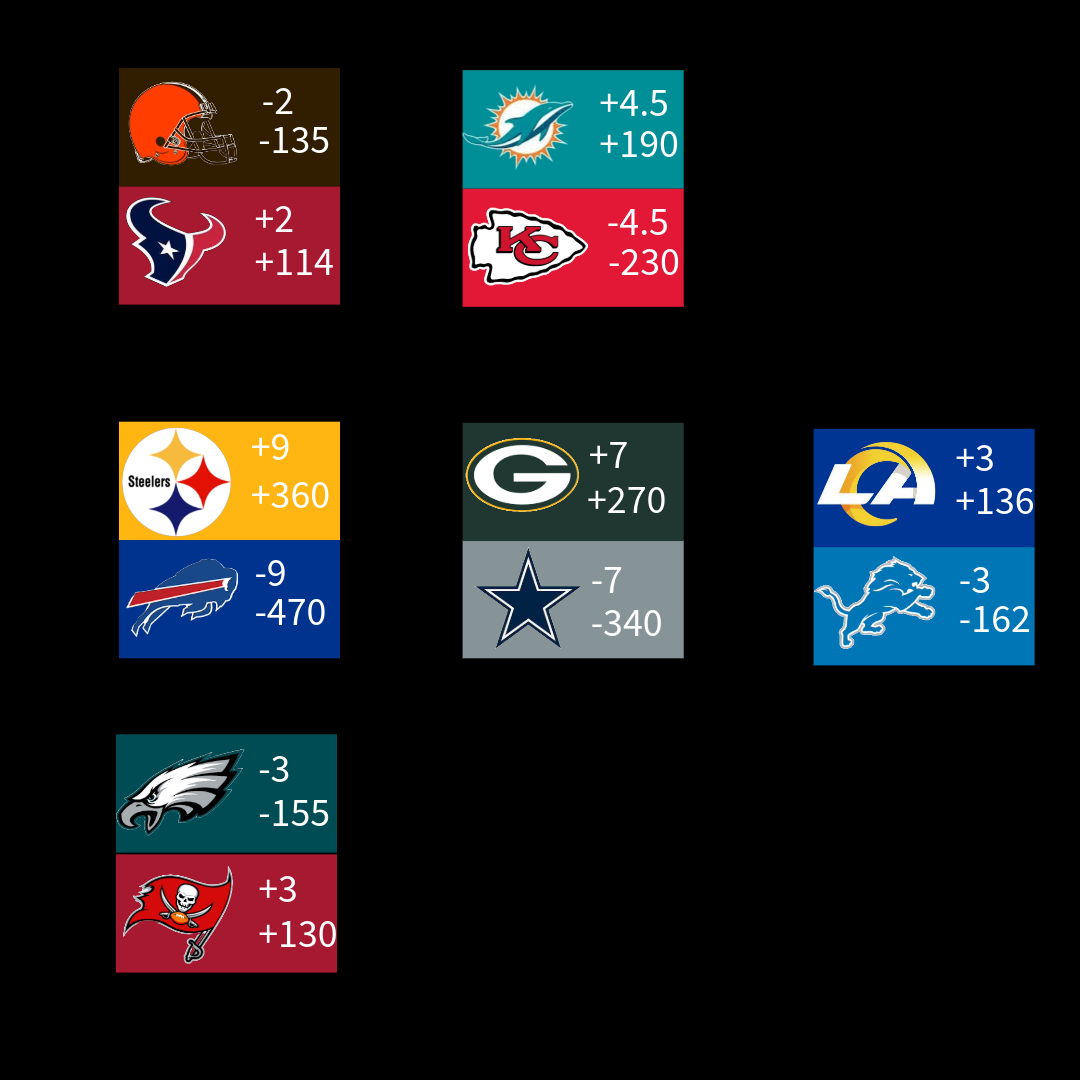
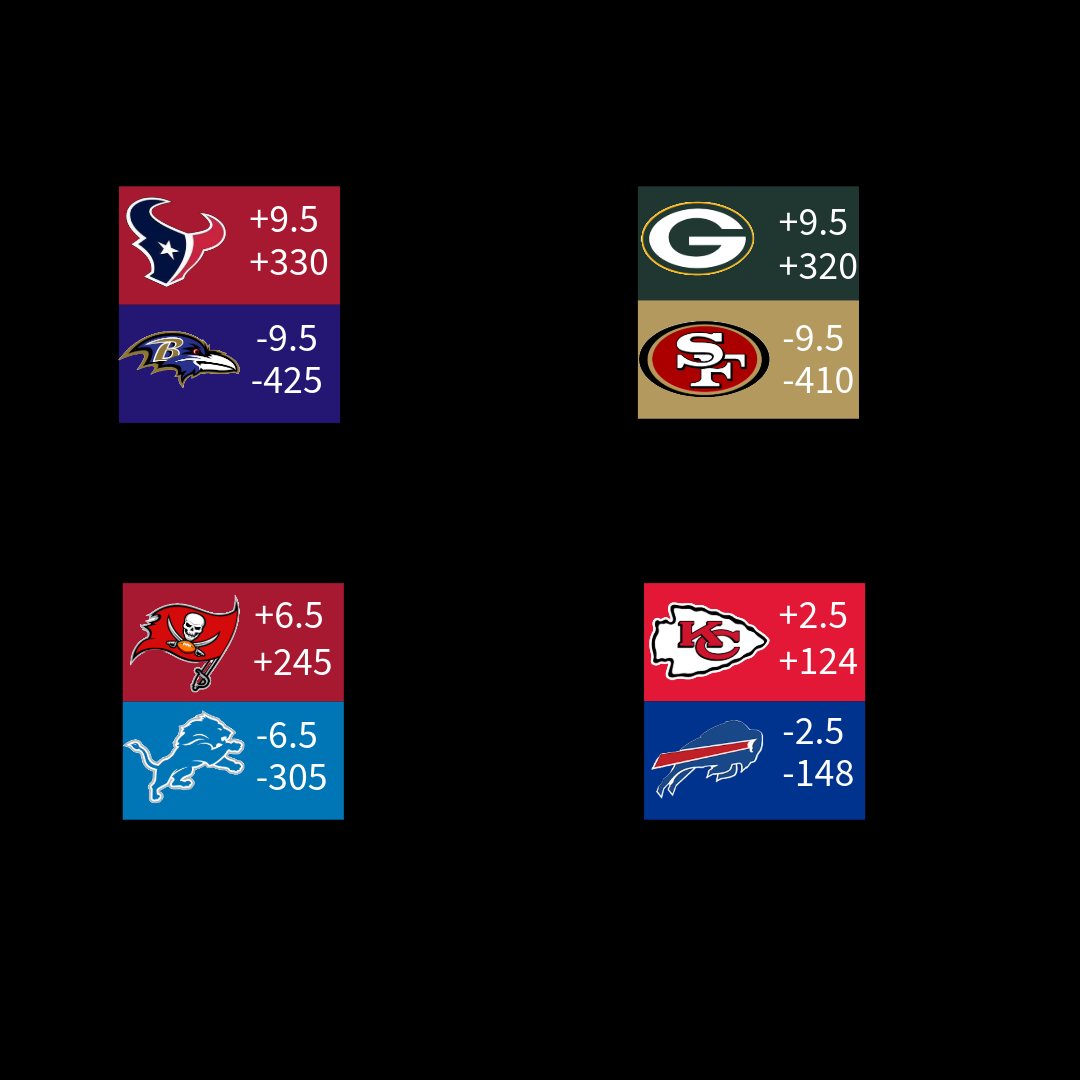
19.1

diff --git a/public/dashboard.js b/public/dashboard.js
@@ -16,40 +16,28 @@ tuesdayEndTime.setHours(tuesdayEndTime.getHours() - 5); // Convert UTC to EST (U
 // Assuming betOptions is an array of all bet options for the week
 const betOptions = [
   // Steelers vs Ravens
-  { teamName: 'CLE Browns', type: 'Spread', value: '-2' },
-  { teamName: 'CLE Browns', type: 'ML', value: '-135' },
-  { teamName: 'HOU Texans', type: 'Spread', value: '+2' },
-  { teamName: 'HOU Texans', type: 'ML', value: '+114' },
+  { teamName: 'HOU Texans', type: 'Spread', value: '+9.5' },
+  { teamName: 'HOU Texans', type: 'ML', value: '+330' },
+  { teamName: 'BAL Ravens', type: 'Spread', value: '-9.5' },
+  { teamName: 'BAL Ravens', type: 'ML', value: '-425' },
 
   // Texans vs Colts
-  { teamName: 'MIA Dolphins', type: 'Spread', value: '+4.5' },
-  { teamName: 'MIA Dolphins', type: 'ML', value: '+190' },
-  { teamName: 'KC Chiefs', type: 'Spread', value: '-4.5' },
-  { teamName: 'KC Chiefs', type: 'ML', value: '-230' },
+  { teamName: 'GB Packers', type: 'Spread', value: '+9.5' },
+  { teamName: 'GB Packers', type: 'ML', value: '+320' },
+  { teamName: 'SF 49ers', type: 'Spread', value: '-9.5' },
+  { teamName: 'SF 49ers', type: 'ML', value: '-410' },
 
   // Jaguars vs Titans
-  { teamName: 'PIT Steelers', type: 'Spread', value: '+9' },
-  { teamName: 'PIT Steelers', type: 'ML', value: '+360' },
-  { teamName: 'BUF Bills', type: 'Spread', value: '-9' },
-  { teamName: 'BUF Bills', type: 'ML', value: '-470' },
+  { teamName: 'TB Buccaneers', type: 'Spread', value: '+6.5' },
+  { teamName: 'TB Buccaneers', type: 'ML', value: '+245' },
+  { teamName: 'DET Lions', type: 'Spread', value: '-6.5' },
+  { teamName: 'DET Lions', type: 'ML', value: '-305' },
 
   // Vikings vs Lions
-  { teamName: 'GB Packers', type: 'Spread', value: '+7' },
-  { teamName: 'GB Packers', type: 'ML', value: '+270' },
-  { teamName: 'DAL Cowboys', type: 'Spread', value: '-7' },
-  { teamName: 'DAL Cowboys', type: 'ML', value: '-340' },
-
-  // Browns vs Bengals
-  { teamName: 'LA Rams', type: 'Spread', value: '+3' },
-  { teamName: 'LA Rams', type: 'ML', value: '+136' },
-  { teamName: 'DET Lions', type: 'Spread', value: '-3' },
-  { teamName: 'DET Lions', type: 'ML', value: '-162' },
-
-  // Buccaneers vs Panthers
-  { teamName: 'PHI Eagles', type: 'Spread', value: '-3' },
-  { teamName: 'PHI Eagles', type: 'ML', value: '-155' },
-  { teamName: 'TB Buccaneers', type: 'Spread', value: '+3' },
-  { teamName: 'TB Buccaneers', type: 'ML', value: '+130' },
+  { teamName: 'KC Chiefs', type: 'Spread', value: '+2.5' },
+  { teamName: 'KC Chiefs', type: 'ML', value: '+124' },
+  { teamName: 'BUF Bills', type: 'Spread', value: '-2.5' },
+  { teamName: 'BUF Bills', type: 'ML', value: '-148' },
 ];
 
 const teamColorClasses = {

diff --git a/public/homepage.html b/public/homepage.html
@@ -24,7 +24,7 @@
     </div>
     <div class="container">
         <div class="neon-sign">
-            PLAYOFF WEEK 1
+            PLAYOFF WEEK 2
         </div>
         
         <div class="players">
@@ -66,43 +66,11 @@
     
 
 
-
-               
-
-
     <!-- Primitive Picks -->
     <div class="player-card" data-username="Primitive Picks" data-points="59.5">
         <div class="total-points">Total Points: <span class ="points-value">0</span></div>
         <h2>Primitive Picks</h2>
         <div class="picks">
-            <!-- Empty pick placeholders -->
-        </div>
-        <div class="immortal-lock">
-            Immortal Lock: ---
-        </div>
-    </div>
-
-          <!-- LazyAhhGamer -->
-  <div class="player-card" data-username="LazyAhhGamer" data-points="56.5">
-    <div class="total-points">Total Points: <span class ="points-value">0</span></div>
-    <h2>LazyAhhGamer</h2>
-    <div class="picks">
-        <!-- Empty pick placeholders -->
-    </div>
-    <div class="immortal-lock">
-        Immortal Lock: ---
-    </div>
-</div>
-
-      <!-- L to the OG -->
-      <div class="player-card" data-username="L to the OG" data-points="55">
-        <div class="total-points">Total Points: <span class ="points-value">0</span></div>
-        <h2>L to the OG</h2>
-        
-
-
-        <div class="picks">
-        
             <!-- Empty pick placeholders -->
         </div>
         <div class="immortal-lock">

diff --git a/public/homepage.js b/public/homepage.js
@@ -199,7 +199,7 @@ function initializeCountdown() {
             
             //comment out during play time
      
-            if ((now > thursdayDeadline && now < tuesdayEndTime && cardUsername && cardUsername === loggedInUsername)) {
+            if ((now < thursdayDeadline && now < tuesdayEndTime && cardUsername && cardUsername === loggedInUsername)) {
                 console.log("Redirecting to dashboard");
                 window.location.href = `/dashboard?username=${cardUsername}`;
             }
@@ -217,7 +217,7 @@ function initializeCountdown() {
         console.log(tuesdayEndTime);
         console.log(thursdayDeadline);
         console.log(now);
-        if (now > thursdayDeadline && now < tuesdayEndTime){
+        if (now < thursdayDeadline && now < tuesdayEndTime){
             const loggedInUsername = localStorage.getItem('username');
             const userCard = document.querySelector(`.player-card[data-username="${loggedInUsername}"]`);
     
